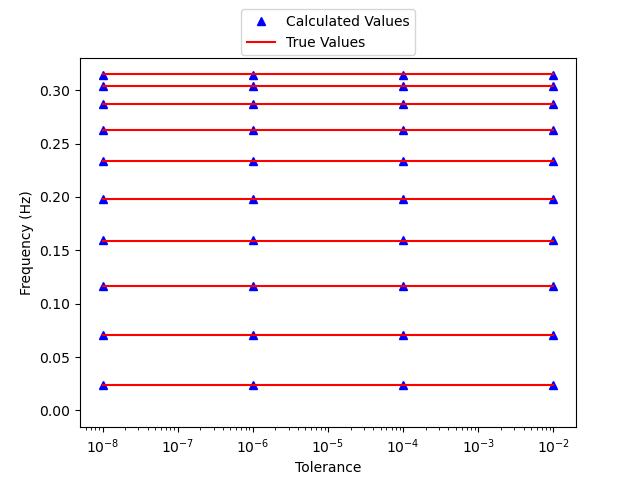
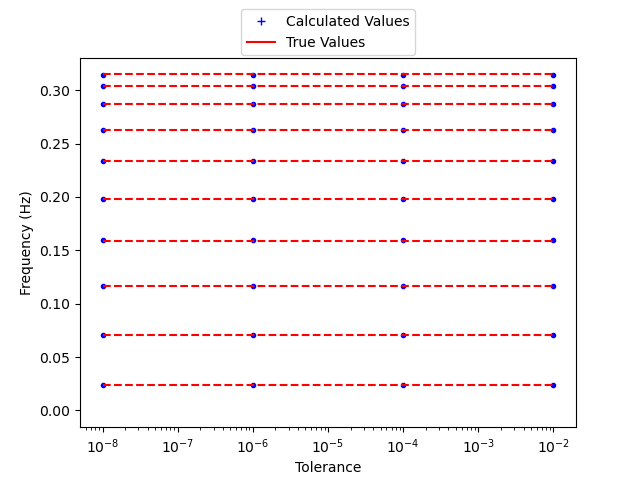
Improved plot

diff --git a/331Lab1/Lab1_Q3.py b/331Lab1/Lab1_Q3.py
@@ -22,19 +22,20 @@ def plot_results(real, tols, founds):
 
     # Plot found values
     for i, tol in enumerate(tols):
-        plt.plot([tol]*10, founds[1], 'b^')
-    plt.plot(0, 0, 'b^', label="Calculated Values")
+        plt.plot([tol]*10, founds[1], 'b.')
+    plt.plot(0, 0, 'b+', label="Calculated Values")
 
     # Plot real values (with horizontal lines)
     for ele in real:
-        plt.plot([1e-8, 1e-2], [ele]*2, 'r-')
+        plt.plot([1e-8, 1e-2], [ele]*2, 'r--')
     plt.plot(0, 0, 'r-', label="True Values")
 
     plt.xlabel("Tolerance")
     plt.ylabel("Frequency (Hz)")
     plt.legend(bbox_to_anchor=(0.5, 1.15), loc='upper center')
     plt.semilogx()
-    plt.savefig("Freq_by_tolerance")
+    #plt.savefig("Freq_by_tolerance")
+    plt.show()
 
 
 def solve_freq_modes(N,K):
